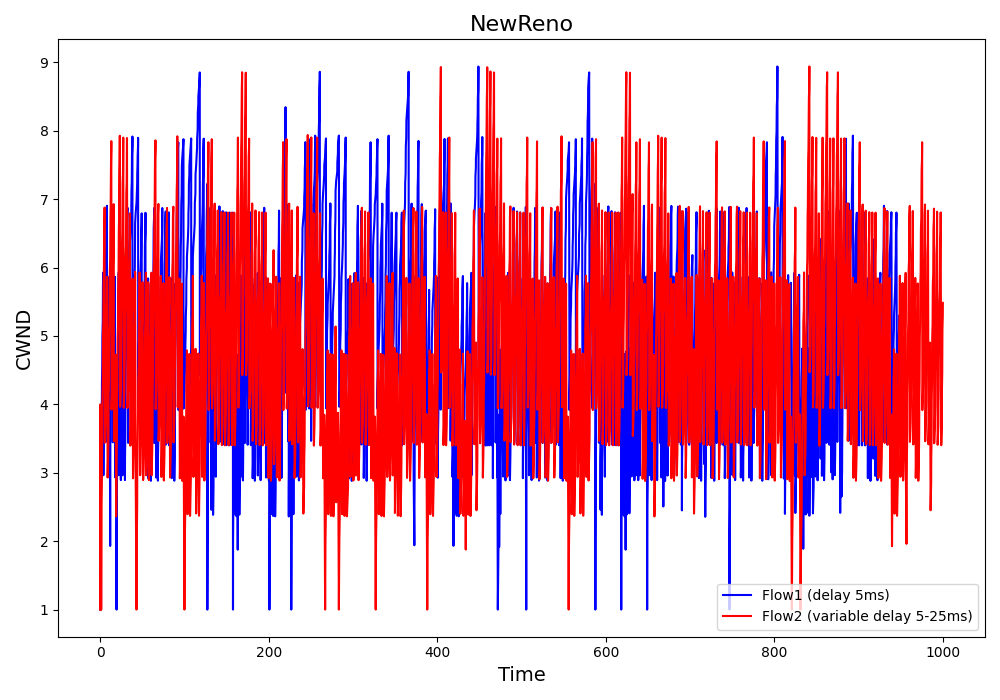
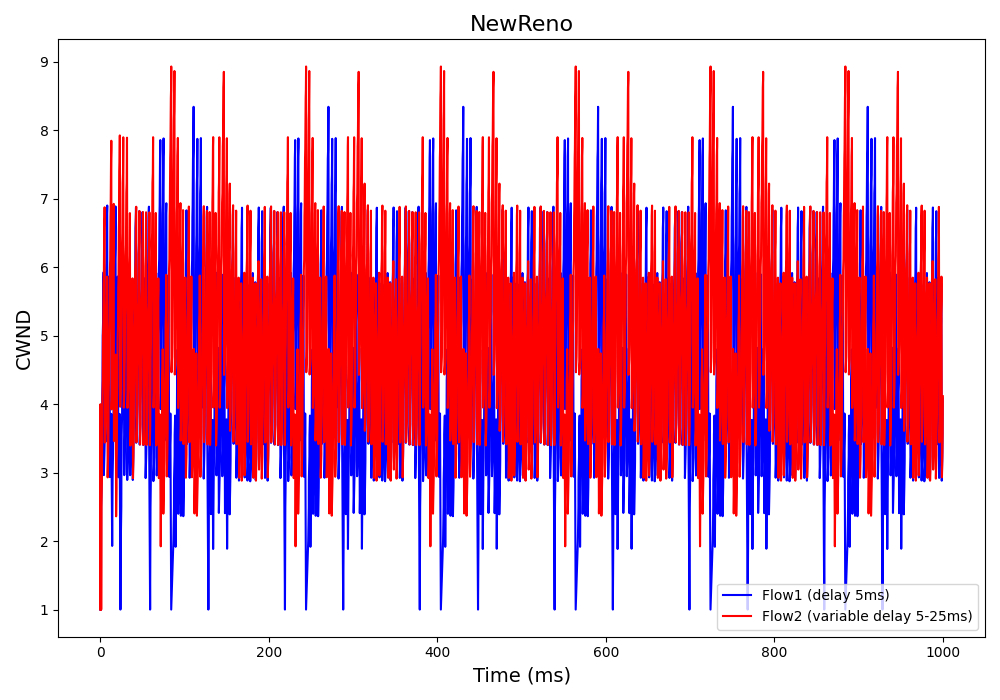
Fix rtt and cwnd averages

Changed region(s): [[0.093, 0.09, 0.961, 0.87], [0.465, 0.93, 0.558, 0.99]]

diff --git a/plot.py b/plot.py
@@ -3,9 +3,10 @@ import sys
 import os
 from pprint import pprint
 import utils
-import average_cwnd
+import cwnd
 import goodput
 import loss_rate
+import rtt
 
 iterations = int(sys.argv[1])
 algorithms = [sys.argv[2], sys.argv[3], sys.argv[4]]
@@ -13,28 +14,31 @@ average_gp_flow0 = []
 average_gp_flow1 = []
 average_plr_flow0 = [] 
 average_plr_flow1 = []
+average_rtt_flow0 = [] 
+average_rtt_flow1 = []
 
 for algorithm in algorithms:
 	#CWND
-	time, average_cwnd_0, average_cwnd_1 = average_cwnd.get_cwnd(iterations, algorithm)
-	average_cwnd.plot_flows_cwnd(time, average_cwnd_0, average_cwnd_1, algorithm)
+	time_0, average_cwnd_0, time_1, average_cwnd_1 = cwnd.get_time_and_averages(iterations, algorithm)
+	cwnd.plot_flows(time_0, average_cwnd_0, time_1, average_cwnd_1, algorithm)
 	
 	#Goodput
-	gp_flow0, gp_flow1 = goodput.get_goodputs(iterations, algorithm, time_lenght = 1)
+	gp_flow0, gp_flow1 = goodput.get_averages(iterations, algorithm, time_lenght = 1)
 	gp_flow0 = float("{:.3f}".format(gp_flow0))
 	gp_flow1 = float("{:.3f}".format(gp_flow1))
 	average_gp_flow0.append(gp_flow0)
 	average_gp_flow1.append(gp_flow1)
 
 	#PacketLossRate
-	plr_flow0, plr_flow1 = loss_rate.get_loss(iterations, algorithm)
+	plr_flow0, plr_flow1 = loss_rate.get_averages(iterations, algorithm)
 	plr_flow0 = float("{:.4f}".format(plr_flow0))
 	plr_flow1 = float("{:.4f}".format(plr_flow1))
 	average_plr_flow0.append(plr_flow0)
 	average_plr_flow1.append(plr_flow1)
 
 	#Round Trip time rate
-
+	average_rtt_0, average_rtt_1 = rtt.get_averages(iterations, algorithm) 
+	rtt.plot_flows(average_rtt_0, average_rtt_1, algorithm)
 
 	print("--------------------------\n", algorithm,"\n Goodputs:", gp_flow0, "Mb/s", gp_flow1, "Mb/s",
 	"\n Loss rates:", plr_flow0, "%", plr_flow1, "%")

diff --git a/rtt.py b/rtt.py
@@ -1,0 +1,42 @@
+#!/usr/bin/python3
+import matplotlib.pyplot as plt
+import sys
+import numpy as np
+import utils
+#Accoring to TCP connection expect: goodput_ratio = 1/2 × (RTT_ratio)^2
+
+def readFile(filename, source, dest):
+	of = open("traces/"+filename,"r")
+	lines = [i.strip().split() for i in of.readlines()]
+	of.close()
+	rtt = []
+	for line in lines:
+		if line[1] == str(source) and line[2] == str(dest):
+			rtt.append(float(line[4]))
+	return rtt
+
+def get_averages(iterations, algorithm):
+	average_rtt_0 = []
+	average_rtt_1 = []
+	for i in range(1, iterations + 1):
+		rtt_0 = readFile("tcp"+str(i)+"-"+algorithm+"-rtt.tr", 0, 4)
+		average_rtt_0 = utils.add_items(rtt_0, average_rtt_0)
+		
+		rtt_1 = readFile("tcp"+str(i)+"-"+algorithm+"-rtt.tr", 1, 5)
+		average_rtt_1 = utils.add_items(rtt_1, average_rtt_1)
+	average_rtt_0 = [i / iterations for i in average_rtt_0]
+	average_rtt_1 = [i / iterations for i in average_rtt_1]
+	return average_rtt_0, average_rtt_1
+
+def plot_flows(rtt_0, rtt_1, algorithm):
+	plt.figure(figsize = [10, 7])
+	plt.title(algorithm, fontsize=16)
+	plt.plot([i for i in range(0, len(rtt_0))], rtt_0, color="b")
+	plt.plot([i for i in range(0, len(rtt_1))], rtt_1, color="r")
+	plt.legend(['Flow1 (delay 5ms)', 'Flow2 (variable delay 5-25ms)'], loc='best')
+
+	plt.xlabel('Time (ms)', fontsize=14) 
+	plt.ylabel('Round Trip Time (ms)', fontsize=14)   
+	plt.tight_layout()
+	plt.savefig("img/rtt/"+algorithm+"_rtt.png")
+	plt.close()

diff --git a/cwnd.py b/cwnd.py
@@ -1,0 +1,43 @@
+#!/usr/bin/python3
+import matplotlib.pyplot as plt
+import utils
+
+def readFile(filename):
+	of = open("traces/"+filename,"r")
+	lines = [i.strip().split() for i in of.readlines()]
+	of.close()
+	cwnd = []
+	time = []
+	for line in lines:
+		if "cwnd_" in line:
+			time.append(float(line[0]))
+			cwnd.append(float(line[6]))
+	return time, cwnd
+
+
+def get_time_and_averages(iterations, algorithm):
+	time_0 = []
+	time_1 = []
+	average_cwnd_0 = []
+	average_cwnd_1 = []
+	for i in range(1, iterations + 1):
+		time_0, cwnd_0 = readFile("tcp"+str(i)+"-"+algorithm+"-flow0.tr")
+		average_cwnd_0 = utils.add_items(cwnd_0, average_cwnd_0)
+		time_1, cwnd_1 = readFile("tcp"+str(i)+"-"+algorithm+"-flow1.tr")
+		average_cwnd_1 = utils.add_items(cwnd_1, average_cwnd_1)
+	average_cwnd_0 = [i / iterations for i in average_cwnd_0]
+	average_cwnd_1 = [i / iterations for i in average_cwnd_1]
+	return time_0, average_cwnd_0, time_1, average_cwnd_1
+
+def plot_flows(time_0, average_cwnd_0, time_1, average_cwnd_1, algorithm):
+	plt.figure(figsize = [10, 7])
+	plt.title(algorithm, fontsize=16)
+	plt.plot(time_0, average_cwnd_0, color="b")
+	plt.plot(time_1, average_cwnd_1, color="r")
+	plt.legend(['Flow1 (delay 5ms)', 'Flow2 (variable delay 5-25ms)'], loc='best')
+
+	plt.xlabel('Time (ms)', fontsize=14) 
+	plt.ylabel('CWND', fontsize=14)   
+	plt.tight_layout()
+	plt.savefig("img/cwnd/"+algorithm+"_cwnd.png")
+	plt.close()

diff --git a/utils.py b/utils.py
@@ -4,6 +4,17 @@ import sys
 import numpy as np
 
 
+def add_items(list1, list2):
+  if len(list1) == 0:
+    return list2
+  elif len(list2) == 0:
+    return list1
+  else:
+    res_list = [] 
+    for i in range(0, len(list1)): 
+      res_list.append(list1[i] + list2[i])
+    return res_list
+
 def link_count(sign, file_name, source_node,  dest_node, flow):
   count = 0
   of = open("traces/"+file_name,"r")

diff --git a/goodput.py b/goodput.py
@@ -10,7 +10,7 @@ def get_received_packets_bandwidth(rec_count, packet_size=1000, time_lenght=1):
   #No need to Rip off the header
   return (float(rec_count * packet_size)/time_lenght) * (8 / 1000000)  
 
-def get_goodputs(iterations, algorithm, time_lenght = 1):
+def get_averages(iterations, algorithm, time_lenght = 1):
   rec_count_0 = 0
   rec_count_1 = 0
   for i in range(1, iterations + 1):

diff --git a/loss_rate.py b/loss_rate.py
@@ -9,7 +9,7 @@ def get_rate(dropped_pck_count, sent_pck_count):
   return (float(dropped_pck_count * 100)/ sent_pck_count)
 
 
-def get_loss(iterations, algorithm):
+def get_averages(iterations, algorithm):
   dropped_count_0 = 0
   enqueued_count_0 = 0
   dropped_count_1 = 0
